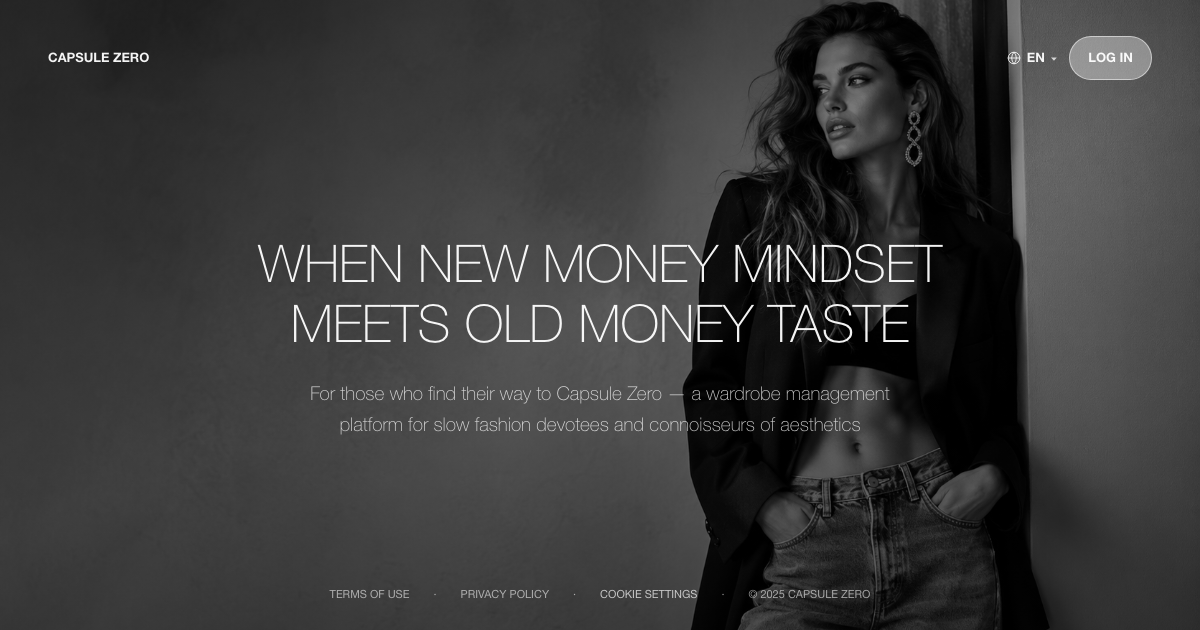
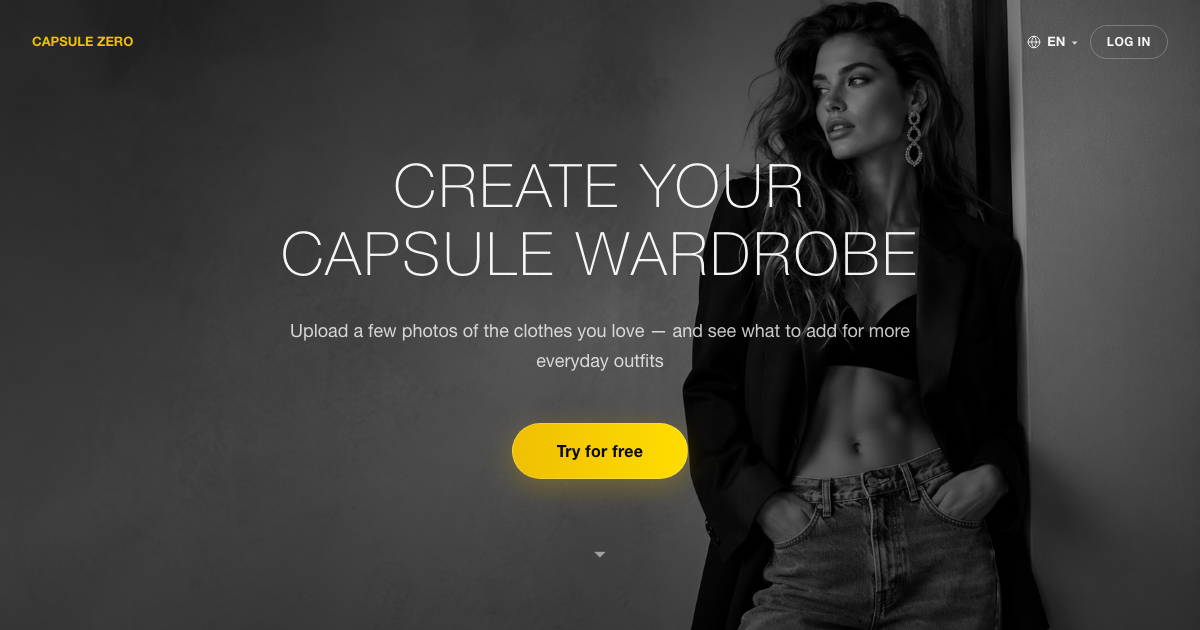
fix: refresh landing social preview

diff --git a/tests/e2e/specs/landing/social-preview.spec.ts b/tests/e2e/specs/landing/social-preview.spec.ts
@@ -5,7 +5,8 @@ import { expect, test } from "../../fixtures/base";
 const productionOrigin = "https://capsulezero.app";
 const previewPath = "/social/capsule-zero-homepage.png";
 const previewUrl = `${productionOrigin}${previewPath}`;
-const previewSha256 = "refresh-required";
+const previewSha256 =
[1 lines of base64/hex data omitted]
 
 test.describe("Landing — social link preview", () => {
   test("publishes a production-ready large image card", async ({

diff --git a/.specify/specs/044-landing-hero-live/plan.md b/.specify/specs/044-landing-hero-live/plan.md
@@ -11,10 +11,11 @@ hero (green) → живой design-review (desktop + mobile, RU/EN) → доки
 | AC-001 | Red: `hero.spec.ts` до реализации — 3 failed на отсутствующих `hero-*` testid'ах, chromium (коммит `53073f0`). Green: тот же прогон после реализации — 3 passed; computed `background-image` CTA = `linear-gradient(to right, rgb(239, 191, 4) 0%, rgb(255, 221, 0) 100%)` (проверено и Playwright-прогоном, и живым probe в браузере) | ✅ red→green |
 | AC-002 | Тест «hero CTA opens the auth popup in sign-up mode» green (негатив: signIn-форма `toHaveCount(0)`); `auth-popup.spec.ts` не менялся и green в полном прогоне | ✅ |
 | AC-003 | Тест «slides stub stays strictly below the first viewport» green на chromium (Desktop Chrome) и webkit-iphone (iPhone 14) в полном прогоне | ✅ |
-| AC-004 | Полный лендинг-набор `specs/landing/` против свежего production build в форме CI (`--workers=2`): **32/32 passed за 12.2 с**; существующие спеки не менялись (POM расширен аддитивно). Отдельный screenshot/geometry probe на 1280×800 и 375×844 подтвердил `fold.height === viewport.height` и `stub.y === viewport.height`; desktop/mobile изображения просмотрены локально | ✅ |
+| AC-004 | После финального social-preview refresh полный лендинг-набор `specs/landing/` в форме CI (`--workers=2`) снова **32/32 passed**; `social-preview.spec.ts` теперь дополнительно пинит digest PNG, остальные существующие спеки не менялись (POM расширен аддитивно). Отдельный screenshot/geometry probe на 1280×800 и 375×844 подтвердил `fold.height === viewport.height` и `stub.y === viewport.height`; desktop/mobile изображения просмотрены локально | ✅ |
 | AC-005 | Native Codex P2 воспроизведён test-first: коммит `5e355a5` — reduced-motion тест failed (`expected "none", received "landing-cue"`); коммит `5eba941` — `@media (prefers-reduced-motion: reduce)` выключает animation; hero-suite **8/8 passed** на chromium + webkit-iphone против production build | ✅ red→green |
 | Negative | Покрыты внутри AC-002 (signIn-форма отсутствует), AC-003 (стаб не пересекает первый вьюпорт) и AC-005 (scroll-cue не анимируется при reduced motion); все green, каждый контракт наблюдался красным до реализации | ✅ |
 | Doc consistency | Native Codex P1 выявил старый manifesto/register контракт в активных источниках. MVP spec/prototype map, constitution, spec 010 (явное supersession), emotion-map, ux-validation и auth entry docs синхронизированы со specs 043/044; PRODUCT-PLAN актуализирован, research/старый HTML явно помечены историческими. `rg`-аудит не оставляет старую формулировку как действующее требование | ✅ |
+| Social preview | Native Codex P1 воспроизведён test-first: `620f6bc` фиксирует red digest (`expected "refresh-required"`, получил старый SHA `84b23b…`); новый 1200×630 PNG снят с production build `/en` без overlays, visually inspected и закреплён SHA-256 `7dec0fb0…`. Focused social-preview suite проходит в Chromium + WebKit/iPhone | ✅ red→green |
 
 Локальный пайплайн на финальном HEAD: `npm --prefix app run lint` (0 errors; 91 warnings total,
 включая обоснованный soft-gate warning для 90-строчного `LandingPage` и существующие legacy warnings),
@@ -22,6 +23,6 @@ hero (green) → живой design-review (desktop + mobile, RU/EN) → доки
 `npm --prefix app run build` (успех, 33 страницы), `npm run lint:e2e` (0 errors; 3 pre-existing
 `.skip`-warnings во fullstack-спеках), `npm run typecheck:e2e` (чисто),
 `node scripts/check-repo-baseline.mjs` (passed), `node scripts/check-feature-memory.mjs --worktree`
-(passed). Финальная повторная проверка после Codex P2: production build — success (33 страницы),
-hero-suite — 8/8, полный landing-suite — 32/32. Прогоны сьюта дефолтными 5 локальными воркерами флейкают по dev-only механике
+(passed). Финальная повторная проверка после Codex findings: production build — success (33 страницы),
+hero-suite — 8/8, focused social-preview — 2/2, полный landing-suite — 32/32. Прогоны сьюта дефолтными 5 локальными воркерами флейкают по dev-only механике
 (см. Process Memory) — критерий истины: форма CI (2 воркера) и required-check `test` на PR HEAD.

diff --git a/.specify/specs/044-landing-hero-live/spec.md b/.specify/specs/044-landing-hero-live/spec.md
@@ -32,7 +32,10 @@ PRODUCT-PLAN §4) CTA «Попробовать бесплатно» **време
 - `app/src/messages/en.json` / `ru.json` — hero-копия по утверждённому прототипу (RU на «ты»),
   копирайт `© 2026`.
 - `tests/e2e/` — расширение POM `LandingPage.ts` + новый `specs/landing/hero.spec.ts`
-  (TDD red→green; негативы sign-in/stub/reduced-motion внутри).
+  (TDD red→green; негативы sign-in/stub/reduced-motion внутри) и digest-контракт в
+  `social-preview.spec.ts`, не позволяющий вернуть старый preview незаметно.
+- `app/public/social/capsule-zero-homepage.png` — 1200×630 screenshot текущего English hero из
+  production build без cookie/auth/dev overlays; заменяет устаревший manifesto/©2025 preview.
 - Доки тем же изменением: `docs_capsule_zero/screens/screen-landing.md`,
   `docs_capsule_zero/features/f-001-landing.md`, `docs_capsule_zero/i18n/ui-texts.md`,
   PRODUCT-PLAN.md (interim-CTA решение), `design-system.md` §9.11(d) (отметка о реализации), а
@@ -45,8 +48,6 @@ PRODUCT-PLAN §4) CTA «Попробовать бесплатно» **време
 - Гостевой инструмент и решения Q1/Q2/Q3/Q6 — CTA перенацеливается на него отдельным слайсом,
   когда он появится (interim-маршрут фиксируется как временный).
 - Контент «Как это работает» (post-MVP), OPR-демо, соцдоказательство.
-- Перегенерация `og:image` (`/social/capsule-zero-homepage.png`) — follow-up после мержа;
-  `social-preview.spec.ts` проверяет URL/размеры, не содержимое.
 - 039-ретюны токенов (`--color-text-secondary` → `.78`, `--input-focus-border` → `.82`) —
   остаются в последовательности спеки 039.
 
@@ -60,8 +61,9 @@ PRODUCT-PLAN §4) CTA «Попробовать бесплатно» **време
   входа — существующий `auth-popup.spec.ts` остаётся зелёным без правок.
 - **AC-003:** первый экран — ровно один вьюпорт: заглушка слайдов не пересекает первый вьюпорт
   (негатив) на десктопе (chromium Desktop Chrome) и мобайле (webkit iPhone 14).
-- **AC-004:** футер, куки-баннер и переключатель языка сохранены: существующие лендинг-спеки
-  (`cookie-banner`, `legal-links`, `design-tokens`, `social-preview`) зелёные без правок.
+- **AC-004:** футер, куки-баннер и переключатель языка сохранены; canonical social preview обновлён
+  скриншотом того же hero. Лендинг-спеки (`cookie-banner`, `legal-links`, `design-tokens`) зелёные
+  без правок, а `social-preview` расширен digest-проверкой red→green.
 - **AC-005:** при системной/браузерной настройке `prefers-reduced-motion: reduce` декоративный
   scroll-cue статичен (`animation-name: none`); бесконечное вертикальное движение отсутствует.
 

diff --git a/.specify/specs/041-social-link-preview/plan.md b/.specify/specs/041-social-link-preview/plan.md
@@ -38,13 +38,13 @@ Capture the production English landing page at the standard 1200x630 Open Graph 
 | ------------------------ | -------------------------------------------------------------------------------------------------------------------------------------------------------------------------- |
 | FR-001 / FR-002 / SC-002 | `npm --prefix tests/e2e run test -- specs/landing/social-preview.spec.ts` passed in Chromium and WebKit; it asserts the absolute Open Graph URL, dimensions, and alt text. |
 | FR-003 / SC-002          | The same Playwright scenario asserts `summary_large_image` and the matching absolute Twitter image URL.                                                                    |
-| FR-004 / SC-006          | Visual inspection of `app/public/social/capsule-zero-homepage.png`, captured from production `/en` with consent pre-seeded.                                                |
+| FR-004 / SC-006          | Visual inspection of `app/public/social/capsule-zero-homepage.png`, refreshed from the spec-044 production build at 1200x630 with consent pre-seeded and reduced motion.   |
 | FR-005                   | `rg -n "siteMetadata" 'app/src/app/(redirect)/layout.tsx' 'app/src/app/[locale]/layout.tsx'` shows both layouts importing the shared contract.                             |
 | FR-006 / SC-004          | The Playwright scenario requests the local image path and asserts HTTP 200 plus `image/png`.                                                                               |
 | FR-007                   | `git diff origin/main...HEAD -- app/src/components/landing app/src/app/globals.css messages` is empty.                                                                     |
 | FR-008                   | PR history shows a failing-test commit before the implementation commit.                                                                                                   |
 | SC-001                   | The focused scenario passed: 2 tests across Chromium and WebKit iPhone.                                                                                                    |
-| SC-003                   | `sips -g pixelWidth -g pixelHeight -g format -g hasAlpha app/public/social/capsule-zero-homepage.png` reports PNG, 1200x630, no alpha; `ls -lh` reports 260 KB.            |
[1 lines of base64/hex data omitted]
 | SC-005                   | Local `npm run preflight` passed (36 Playwright tests passed, 8 full-stack tests skipped as configured); required GitHub checks remain PR evidence.                        |
 
 Negative scenario evidence:

diff --git a/.specify/specs/044-landing-hero-live/tasks.md b/.specify/specs/044-landing-hero-live/tasks.md
@@ -9,6 +9,8 @@
 - [x] T007 Native Codex P2: reduced-motion red (`5e355a5`) → green (`5eba941`), полный повторный прогон и refresh PR evidence
 - [x] T008 Native Codex P1: reconciled landing authority across MVP spec/prototype map,
   constitution, spec 010, UX/auth docs, PRODUCT-PLAN and historical research/prototypes
+- [x] T009 Native Codex P1: refresh 1200×630 social screenshot from the production build and pin
+  its digest test-first (`620f6bc` red → refreshed asset/expectation green)
 
 ## Process Memory
 
@@ -56,6 +58,11 @@
   предписывали старый manifesto/register hero. Действующий контракт теперь единообразно указывает
   на `landing-v2/v1c-final.html` + specs 043/044; старые spec 010, research и HTML-прототип явно
   маркированы как исторические/superseded, чтобы сохранить процессную память без ложной нормы.
+- **Social preview refresh (native Codex P1, 2026-07-17):** предыдущий PNG всё ещё показывал
+  retired manifesto, белый logo/login и © 2025, а metadata-only e2e этого не видел. Добавлен
+  SHA-256 контракт: red-коммит `620f6bc` получил старый `84b23b…`; новый 1200×630 screenshot снят
+  с production build `/en` при pre-seeded consent и reduced motion, визуально проверен и закреплён
+  digest `7dec0fb0…`. Генеративный artwork не использован — сохранён контракт spec 041.
 
 ### Dead Ends
 
@@ -79,6 +86,4 @@
 
 ### Known Issues
 
-- `og:image` (`/social/capsule-zero-homepage.png`) после редизайна визуально устаревший —
-  перегенерировать follow-up'ом; `social-preview.spec.ts` проверяет URL/размеры, не содержимое.
 - Контент «Как это работает» — заглушка (post-MVP, PRODUCT-PLAN §5 Этап 1 п.1).

diff --git a/.specify/specs/041-social-link-preview/tasks.md b/.specify/specs/041-social-link-preview/tasks.md
@@ -34,6 +34,7 @@
 - [ ] T019 Push the branch and open a ready-for-review PR.
 - [ ] T020 Comment `@codex review` from the owner account.
 - [ ] T021 Monitor required checks and review evidence on the final head SHA.
+- [x] T022 Refresh the screenshot for the spec-044 live hero and pin its SHA-256 in the e2e contract.
 
 ## Process Memory _(mandatory - required by SENAR; written before declaring work complete)_
 
@@ -45,11 +46,18 @@
 ### Decisions
 
 - **Use the production English landing page as the artwork.** Reason: the user requested a homepage screenshot, and `/en` is the primary locale and approved visual reference.
+- **For a material hero PR, capture its production build before merge.** Reason: the page and
+  canonical preview must deploy together; waiting for the already-deployed URL would guarantee one
+  stale release.
 - **Capture at 1200x630 with the cookie decision pre-seeded.** Reason: this is the standard large-card ratio and removes a temporary consent overlay without altering the page.
 - **Share one metadata module across both root layouts.** Reason: the existing layouts contain duplicated metadata and the Engineering Reuse Rule rejects adding another drifting copy.
 - **Serve one PNG to both Open Graph and Twitter.** Reason: a single canonical asset keeps visual identity and refresh behavior aligned across crawlers.
+- **Pin the PNG digest in e2e (spec-044 refresh).** Reason: URL/content-type checks allowed the
+  retired manifesto image to survive a material hero redesign. The digest makes an intentional
+  screenshot refresh and its test expectation one atomic change.
 
 ### Known Issues
 
 - Telegram may cache the pre-image card after deployment; the follow-up post edit may need a unique HTTPS query parameter to force a fresh crawl.
-- The screenshot is intentionally coupled to the current landing hero and should be recaptured after a material hero redesign.
+- The screenshot is intentionally coupled to the current landing hero and must be recaptured in the
+  same change as every material hero redesign (last refresh: spec 044, 2026-07-17).

diff --git a/.specify/specs/041-social-link-preview/spec.md b/.specify/specs/041-social-link-preview/spec.md
@@ -61,7 +61,9 @@ As a person who encounters a Capsule Zero link in Telegram or another social cli
 - **FR-001**: The app MUST publish an Open Graph image using an absolute `https://capsulezero.app` URL.
 - **FR-002**: The Open Graph image metadata MUST declare width `1200`, height `630`, and descriptive alt text.
 - **FR-003**: The app MUST publish Twitter Card metadata using `summary_large_image` and the same screenshot.
-- **FR-004**: The preview asset MUST be a current screenshot of `https://capsulezero.app/en` captured without the cookie banner or auth popup.
+- **FR-004**: The preview asset MUST be a current screenshot of the production-release English
+  `/en` landing captured without the cookie banner or auth popup. Before a hero PR merges, capture
+  its production build so the image and page deploy together.
 - **FR-005**: The redirect and localized layouts MUST reuse one metadata definition.
 - **FR-006**: The preview asset MUST be served by the Next.js app as `image/png` without a new runtime dependency.
 - **FR-007**: The landing-page UI and copy MUST remain unchanged.
@@ -84,5 +86,6 @@ As a person who encounters a Capsule Zero link in Telegram or another social cli
 ## Implementation Evidence
 
 - The focused Playwright scenario passes in Chromium and the configured WebKit iPhone project.
-- The committed PNG is 1200x630, has no alpha channel, and is 260 KB after lossless compression.
+- The spec-044 refresh is 1200x630, RGB with no alpha channel, 429 KB, and has SHA-256
[1 lines of base64/hex data omitted]
 - The production build completes with the shared metadata contract in both root layouts.

diff --git a/docs_capsule_zero/project/frontend/frontend-docs.md b/docs_capsule_zero/project/frontend/frontend-docs.md
@@ -44,7 +44,12 @@ The web frontend talks to the Go API monolith through nginx; there is no Vercel 
 - Open Graph and Twitter Card image URLs are resolved against `https://capsulezero.app`; crawler-facing metadata must never inherit a localhost or request-specific origin.
 - The canonical preview image is `app/public/social/capsule-zero-homepage.png`, a 1200x630 screenshot of the production English landing page without consent, auth, browser, or development overlays.
 - Open Graph declares the image dimensions and alt text. Twitter uses the same asset with `summary_large_image` so clients do not drift visually.
-- Refresh the screenshot and its e2e expectations whenever the landing hero materially changes. Keep the asset below the platform image-size ceiling and do not replace it with generated brand artwork unless the product decision changes.
+- `social-preview.spec.ts` pins the committed PNG's SHA-256 so a stale or accidental replacement
+  cannot pass on URL/content-type alone.
+- Refresh the screenshot and its digest expectation whenever the landing hero materially changes.
+  Keep the asset below the platform image-size ceiling and do not replace it with generated brand
+  artwork unless the product decision changes. The spec-044 hero refresh was captured from its
+  production build on 2026-07-17.
 
 ## Routing
 
